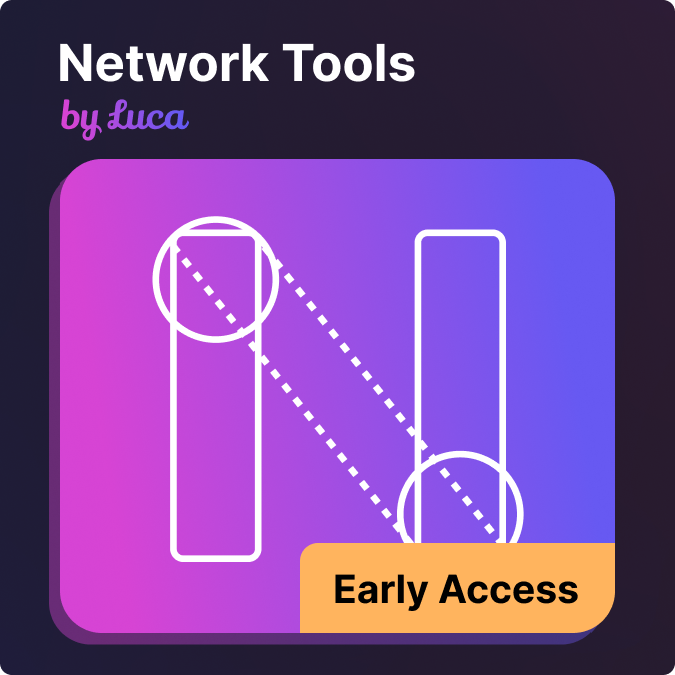
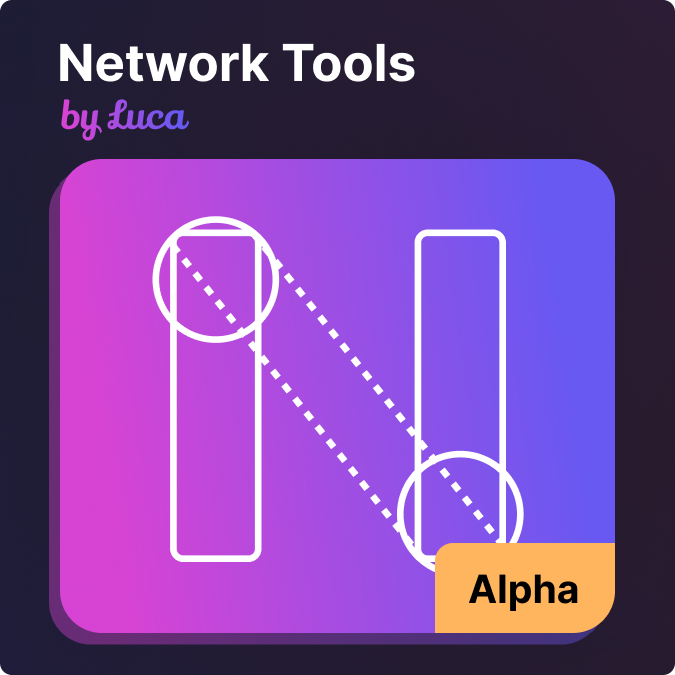
Update metadata for alpha release

Changed region(s): [[0.4356, 0.7778, 0.8711, 0.9644]]

diff --git a/NetworkTools.Mod/Properties/LongDescription.md b/NetworkTools.Mod/Properties/LongDescription.md
@@ -1,1 +1,62 @@
-Early access
+# NetworkTools: Network Manipulation Toolkit
+
+The spiritual successor to the beloved [Network Multitool](https://steamcommunity.com/sharedfiles/filedetails/?id=2560782729) for Cities: Skylines 1, rebuilt from the ground up for CS2.
+
+NetworkTools gives you precise control over road, path, rail, and waterway networks. Add or remove nodes, reshape slopes and curves, generate grids, and more -- all with interactive 3D handles and real-time previews.
+
+Whether you're smoothing out a janky interchange, building a perfectly graded highway, or laying out a neighborhood street grid from scratch, NetworkTools has you covered.
+
+### Tools
+
+**Node Tools**
+* **Add Node** -- Click on any edge to insert a new intermediate node.
+* **Remove Node** -- Click a node to remove it, automatically reconnecting the surrounding edges.
+* **Slide Node** *(coming soon)* -- Drag a node along its parent curve without changing the curve's shape.
+* **Super Node** -- Select and merge multiple nodes into a single large intersection.
+
+**Shape Tools**
+* **Slope** -- Reshape the elevation profile of a path. Supports constant slope, ease-in/out, and arch modes with adjustable parameters.
+* **Curve** -- Straighten or reshape the horizontal curve of a path.
+
+**Creation Tools**
+* **Connect** *(coming soon)* -- Draw new segments between two nodes using simple curves, complex bezier curves, or loops with adjustable radius.
+* **Parallel** -- Create a parallel copy of a path with configurable horizontal and vertical offsets.
+* **Generate** *(coming soon)* -- Place new networks in grid or circle patterns with customizable spacing, counts, and radius.
+
+### Features
+* **Interactive Handles** -- Drag 3D position, rotation, and bezier control point handles directly in the viewport.
+* **Real-Time Preview** -- See the result of every transformation before you apply it.
+* **Network Filtering** -- Choose which network types to target: roads, paths, rail, waterways, or invisible paths.
+* **Snap Options** -- Snap to the zone grid or edge midpoints.
+* **View Options** -- Toggle underground view, zone grid display, and invisible network visibility.
+* **Network Prefab Selector** -- Search and pick any network prefab when creating new segments.
+* **Keyboard Shortcuts** -- Quick-select tools with `Shift+1` through `Shift+9`, toggle the panel with `Shift+T`, and apply with `Enter`. All rebindable in settings.
+
+### How to Use
+1. Open the **NetworkTools** panel from the toolbar (or press `Shift+T`).
+2. Select a tool from the sidebar.
+3. Click nodes or edges in the world to select them, adjust parameters and handles, then apply.
+
+### Experimental Warning
+This mod is experimental. While it is generally considered stable for use, unexpected issues may occur.
+* It is recommended to **backup your save** before using this mod.
+
+### Support and Troubleshooting
+If you encounter issues, please head to the [CS2 Modding Discord](https://discord.gg/C2XQUYHwuV) for support.
+* Please use **Skyve** to share your logs and playset. This is essential for troubleshooting. Sharing your save is also extremely helpful.
+* Bug reports without logs are difficult to fix!
+
+### Translations
+I am looking for volunteers to help translate the mod into other languages.
+* If you are interested, please join the [Discord server](https://discord.gg/C2XQUYHwuV) to collaborate with other translators.
+
+### Donations
+If you'd like to show appreciation and help me continue developing mods, you may support me on [Ko-fi](https://ko-fi.com/lucadevdesign)!
+Donations are incredibly kind and appreciated.
+
+### Credits
+**Creator**
+* Luca
+
+**Special Thanks**
+* The modding community on Discord for testing and feedback.
